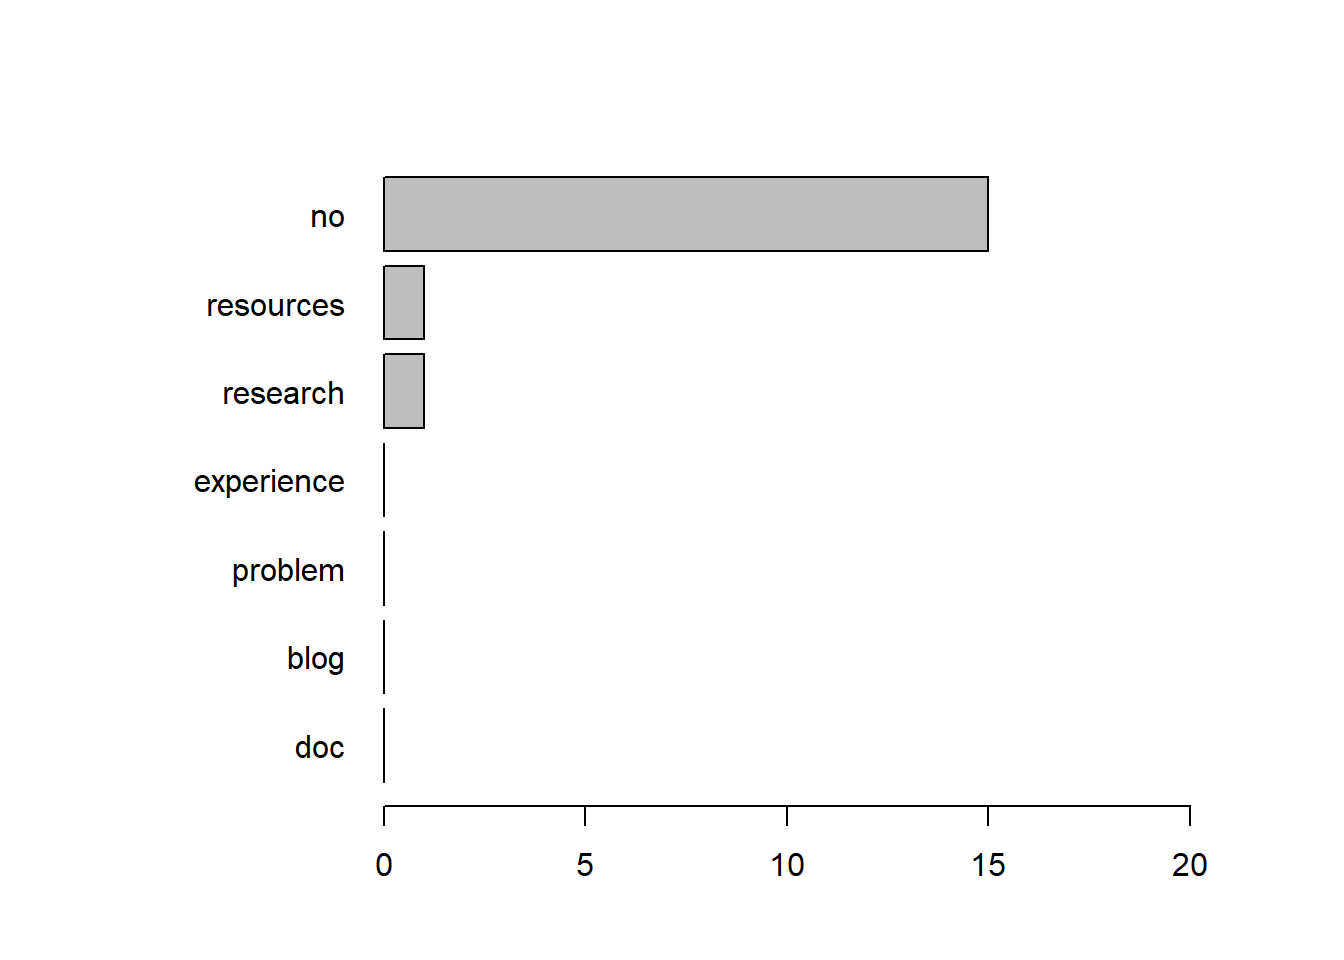
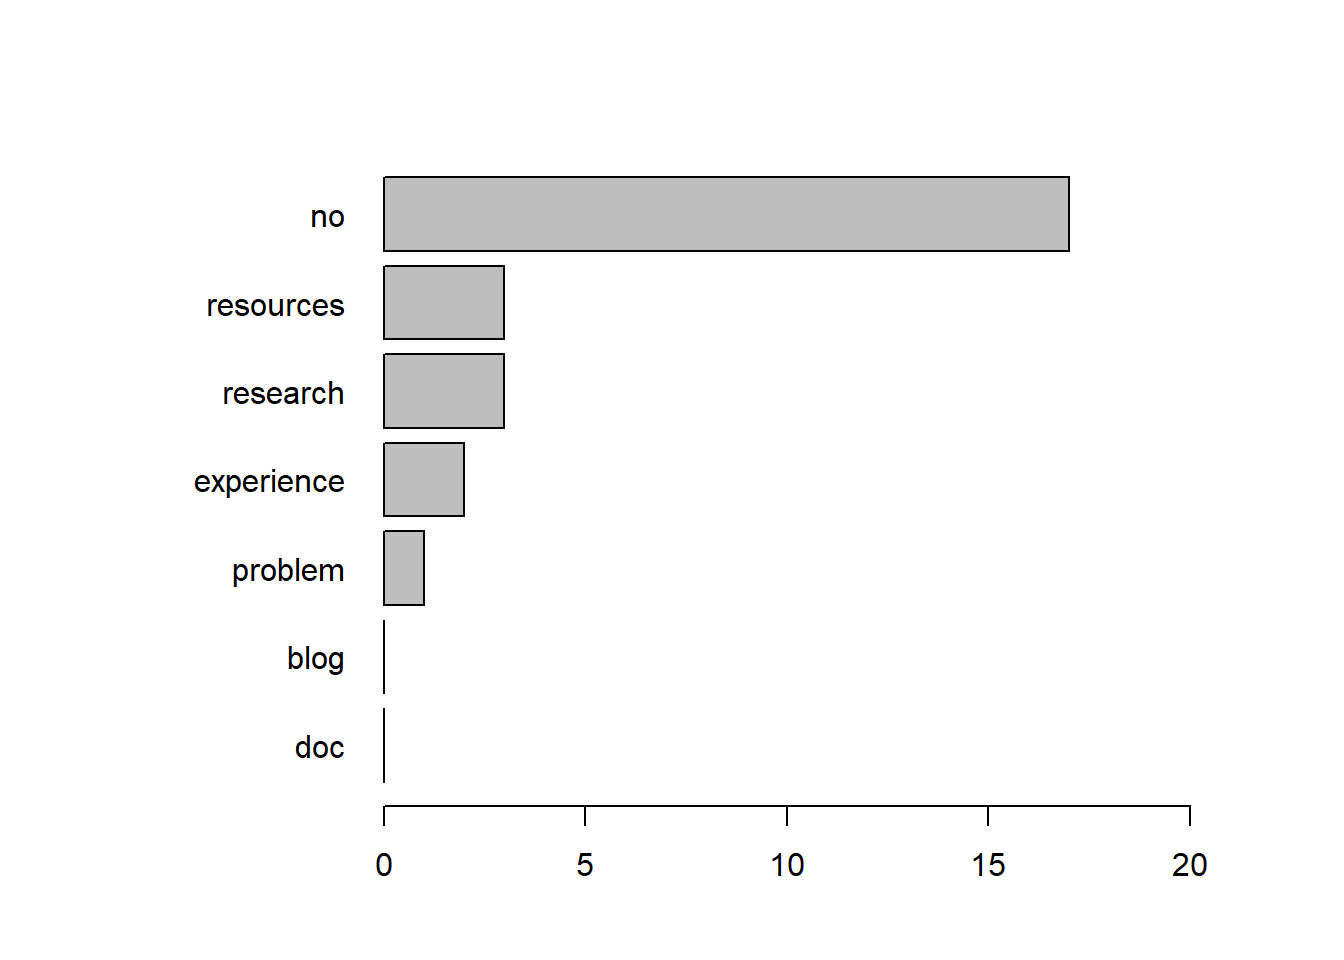
update data

Changed region(s): [[0.2812, 0.25, 0.375, 0.6562], [0.7188, 0.1562, 0.8125, 0.2812]]

diff --git a/OSIP survery results.html b/OSIP survery results.html
@@ -61,7 +61,7 @@ ul.task-list{list-style: none;}
 </div>
 <p>Number of sign up to mailing list since first advertisement fo the survey on the psychology department mailing list (12.07.2022): <strong>5</strong></p>
 <p>Total number of subscribers to the OSIP mailing list: <strong>47</strong></p>
-<p>Total number of participant in the OSIP survey: <strong>19</strong></p>
+<p>Total number of participant in the OSIP survey: <strong>24</strong></p>
 </section>
 <section id="survey-resuts" class="level2">
 <h2 class="anchored" data-anchor-id="survey-resuts">Survey Resuts</h2>
@@ -71,7 +71,7 @@ ul.task-list{list-style: none;}
 <div class="cell-output cell-output-stdout">
 <pre><code>
   other     PhD      PI Postdoc 
-      2       6       1      10 </code></pre>
+      3      10       1      10 </code></pre>
 </div>
 </div>
 <section id="other" class="level4">
@@ -79,8 +79,8 @@ ul.task-list{list-style: none;}
 <div class="cell">
 <div class="cell-output cell-output-stdout">
 <pre><code>
-Associate Professor        Student (BA) 
-                  1                   1 </code></pre>
+Associate Professor       M.Sc. student        Student (BA) 
+                  1                   1                   1 </code></pre>
 </div>
 </div>
 </section>
@@ -157,7 +157,9 @@ Associate Professor        Student (BA)
 <h4 class="anchored" data-anchor-id="other-contributions">Other contributions</h4>
 <div class="cell">
 <div class="cell-output cell-output-stdout">
-<pre><code>&lt; table of extent 0 &gt;</code></pre>
+<pre><code>
+R Tutorial for beginners 
+                       1 </code></pre>
 </div>
 </div>
 </section>
@@ -195,7 +197,8 @@ Associate Professor        Student (BA)
  [8] "Online courses via Zoom"                                                                                                                                                                                   
  [9] "Currently I would be the most comfortable contributing by answering questions in an online chat format, but as I acquire more experience I would also be open to contributing by leading online workshops."
 [10] "I think a mixture of all of this would be fine"                                                                                                                                                            
-[11] "not too preparation intensive contributions "                                                                                                                                                              </code></pre>
+[11] "not too preparation intensive contributions "                                                                                                                                                              
+[12] "if the main language would be german"                                                                                                                                                                      </code></pre>
 </div>
 </div>
 </section>
@@ -218,7 +221,7 @@ Associate Professor        Student (BA)
 <div class="cell-output cell-output-stdout">
 <pre><code>
 not yet     yes 
-      2      17 </code></pre>
+      2      22 </code></pre>
 </div>
 </div>
 </section>
